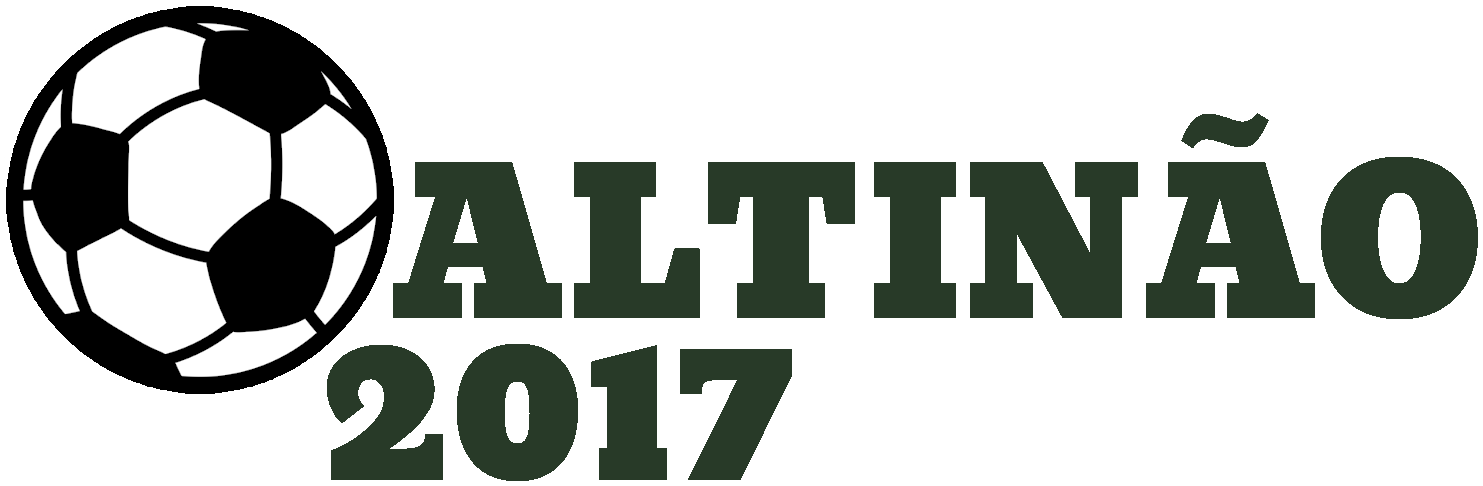
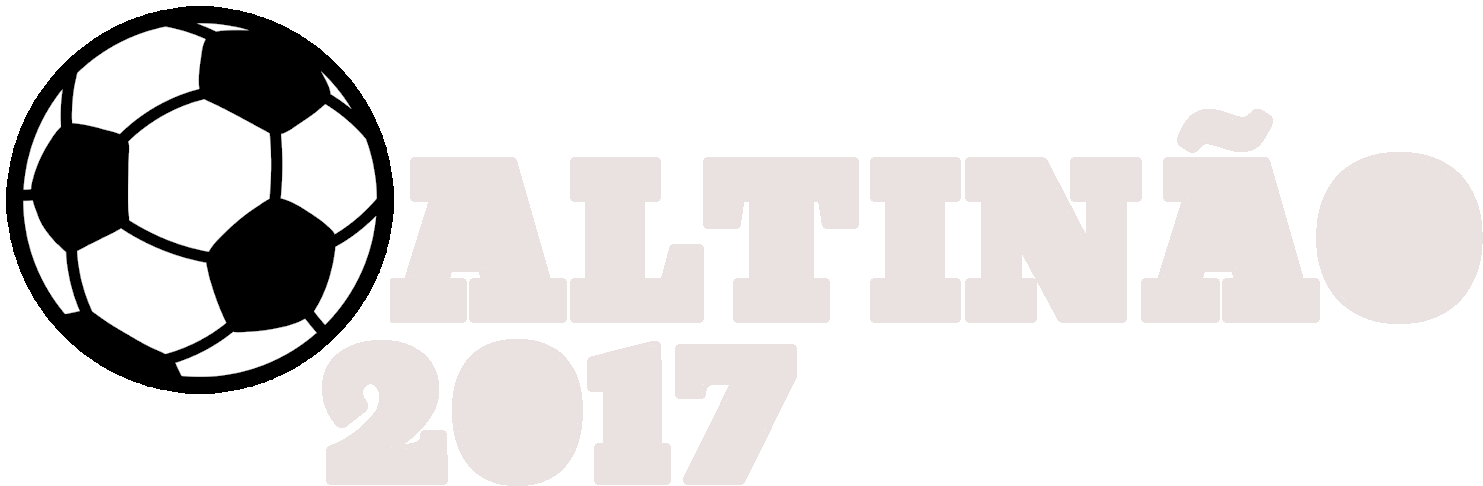
Excluir jogador

Changed region(s): [[0.2171, 0.216, 1.0, 1.0]]

diff --git a/css/app.css b/css/app.css
@@ -1,10 +1,10 @@
 h1, h2, h3, h4, h5{
-	font-family: 'Acme', sans-serif !important;
+	font-family: 'Righteous', cursive !important;
 	color: #283a28;
 	margin: 20px auto;
 }
 body{
-	font-family: 'Questrial', sans-serif !important;
+	font-family: 'Comfortaa', cursive !important;
 }
 a:hover, a:link, a:visited{
 	color: red;
@@ -100,6 +100,7 @@ a:hover, a:link, a:visited{
 .callout{
 	text-shadow: 0px 5px 5px #000;
 	background: #283a28;
+	margin: 0 0 0 0 !important;
 }
 .admin{
 	color: #283a28;

diff --git a/index.php b/index.php
@@ -18,7 +18,7 @@ $time3 = 8;
     <title>Altinão 2017</title>
     <link rel="stylesheet" href="css/foundation.css" />
     <link rel="stylesheet" href="css/app.css" />
-    <link href="https://fonts.googleapis.com/css?family=Acme|Questrial" rel="stylesheet">
+    <link href="https://fonts.googleapis.com/css?family=Comfortaa|Righteous" rel="stylesheet">
     <link rel="stylesheet" href="css/foundation-icons.css" />
       <link rel="icon" href="img/favicon.png" />
   </head>
@@ -27,7 +27,7 @@ $time3 = 8;
     <div class="top-bar">
       <div class="top-bar-left">
         <ul class="menu menu-maior">
-          <li class="menu-text logo-site acme"><img src="img/altinao_pequeno_verde.png"></li>
+          <li class="menu-text logo-site acme"><img src="img/altinao_verde.png"></li>
         </ul>
       </div>
       <div class="top-bar-right">
@@ -255,7 +255,7 @@ $time3 = 8;
         <thead>
           <tr>
             <th>Jogador</th>
-            <th style="text-align: right">Gol(s)</th>
+            <th style="text-align: center;">Gol(s)</th>
           </tr>
         </thead>
         <tbody>
@@ -266,7 +266,7 @@ $time3 = 8;
           WHERE (`info_gol`.`quantidade` > 0) GROUP BY `jogador_id` ORDER BY SUM(`info_gol`.`quantidade`) DESC");
           while($artilheiro = mysqli_fetch_array($result)){
           echo   '<tr>
-            <td>' . $artilheiro['nome'] . '</td><td style="text-align: right">' . $artilheiro['gols'] . '</td></tr>';
+            <td>' . $artilheiro['nome'] . '</td><td style="text-align: center">' . $artilheiro['gols'] . '</td></tr>';
             }
             ?>
           </tbody>
